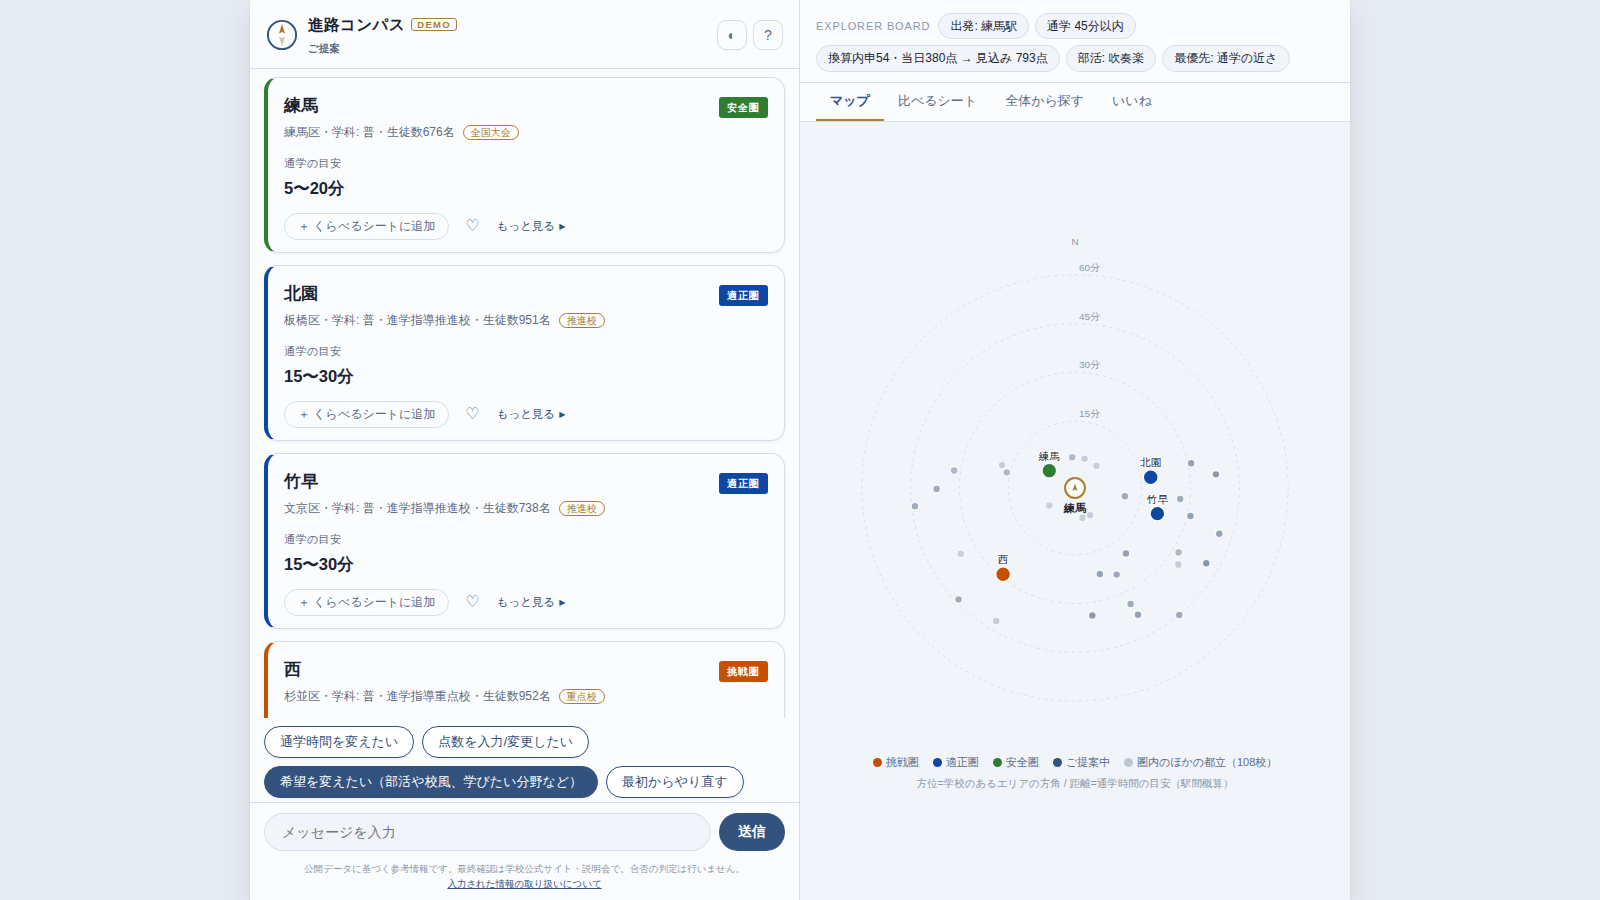
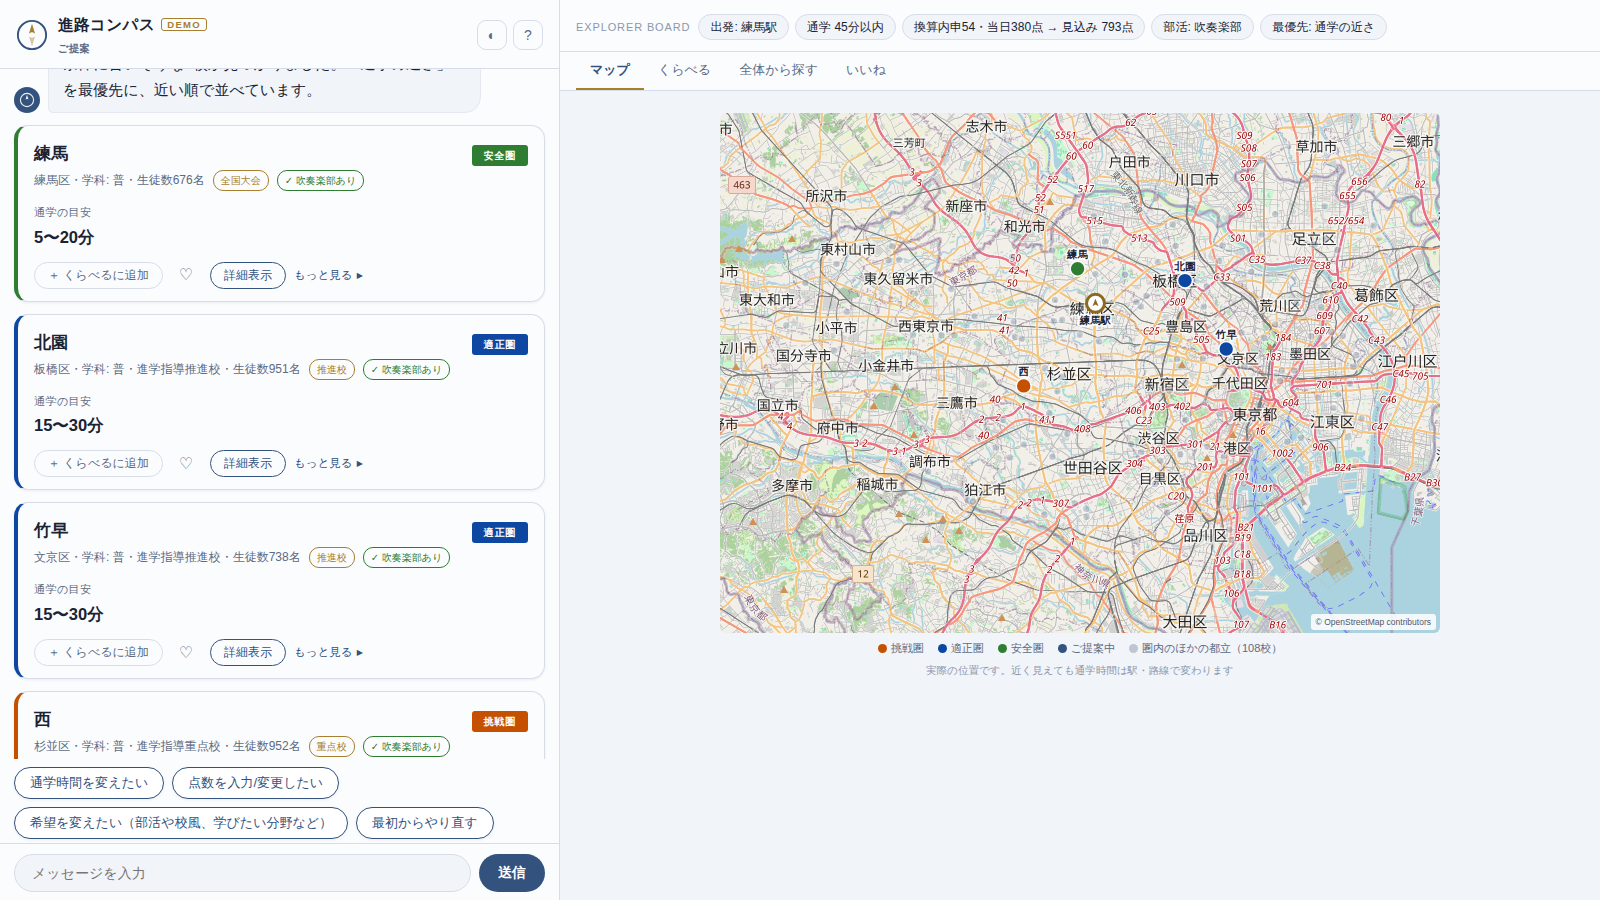
docs: 提出物の点検（A7）— 死んでいたURLを差し替え、キャプチャ1・2を撮り直す
提出前の通し点検（A7-a〜f）で見つかったものを直す。

URL（A7-d）
- #3「令和8年度 最終応募状況」が404。都教委のURL改編で
  /application/20260213_ichiji_final が消えていた。現行の常設ページ
  /application/submit（募集・応募状況等 → 2 応募状況）に差し替え。
  令和8年度のデータが載っていることを確認済み
- 参考リンクのダンス部選手権 /assets/pdf/high/index が403。
  大会ページ本体 /high/ に差し替え
- #1 東京都オープンデータカタログは AWS WAF のbot判定が入り、
  コマンドラインからは中身を確認できない。URL切れではないが、
  提出前にブラウザで開く旨をファイルに書き添えた
- station_database のライセンス表記は現状のままでよい。上流の README は
  CC BY 4.0 のバッジだが、正式な LICENSE.md（利用規約）は CC BY-SA 4.0

キャプチャ（A7-e）
- capture1・2 が「いまの画面」と合っていなかった。8/22〜23 の直しで
  タブ名（比べる→くらべる）・マップ（同心円→実地図）・くらべるシートの
  出し方（全画面→右のボードのタブ）が変わっている
- scripts/shoot_submission_captures.mjs を追加して撮り直した。手で撮ると
  条件も選んだ学校もそのつど変わるので、既存キャプチャと同じ条件
  （練馬/45分以内/換算内申54・当日380/吹奏楽/通学の近さ）に固定する。
  capture1 は3つの圏が同時に見える位置にスクロールを合わせる
- capture3 は表紙スライドで画面に依存しないため撮り直し不要

点検の結果（変更不要だったもの）
- A7-a シークレット相当の新規コンテキストで提出URLが開く。
  localStorage・Cookieとも空から始まり、キャッシュに助けられていない
- A7-b ルート →「デモを開く」→ プロトタイプ → 対話開始まで通る
- A7-c くらべるシート本文の「こちら」からプライバシー表記が開く
- A7-f API通しテスト 20/20 通過（落ちた項目なし）

Claude-Session: https://claude.ai/code/session_01AKzrfXpPxaaiowRAqyEPC3

diff --git a/docs/submission/opendata-list.md b/docs/submission/opendata-list.md
@@ -6,7 +6,7 @@
 |---|---|---|
 | 1 | 東京都公立学校一覧（東京都教育委員会・公立学校統計調査報告書） | https://catalog.data.metro.tokyo.lg.jp/dataset/t000021d2000000176 |
 | 2 | 都立高等学校 入学者選抜 応募状況（過去年度・令和4〜8年度） | https://www.kyoiku.metro.tokyo.lg.jp/admission/high_school/past/first_application |
-| 3 | 令和8年度 都立高等学校 入学者選抜 最終応募状況 | https://www.kyoiku.metro.tokyo.lg.jp/admission/high_school/application/20260213_ichiji_final |
+| 3 | 令和8年度 都立高等学校 入学者選抜 応募状況（第一次募集・分割前期募集） | https://www.kyoiku.metro.tokyo.lg.jp/admission/high_school/application/submit |
 | 4 | 進学指導重点校等の指定（東京都教育委員会） | https://www.kyoiku.metro.tokyo.lg.jp/school/designated_and_promotional_school/reformation/priority_school |
 | 5 | 中学校卒業者の進路状況調査（東京都教育委員会） | https://www.kyoiku.metro.tokyo.lg.jp/about/statistics_and_research/career_report |
 | 6 | station_database（全国鉄道駅・路線データ、CC BY-SA 4.0） | https://github.com/Seo-4d696b75/station_database |
@@ -16,12 +16,24 @@
 | 10 | 高校生国際美術展 入賞・佳作一覧 | https://www.ihsaf.net |
 
 登録枠に収まらなかった利用データ（参考・提出資料内で言及）:
-- 日本高校ダンス部選手権 結果 https://dancestadium.com/assets/pdf/high/index
+- 日本高校ダンス部選手権 結果 https://dancestadium.com/high/
 - 東京都高等学校文化連盟演劇部門（都大会） https://tkek.org/totaikai/
 - 各校公式サイト（部活一覧・制服・アクセス・学校の言葉）
 
+## URLの生存確認（2026-08-23）
+
+10件すべてを実際に開いて確認した。#3 は都教委のURL改編で404になっていたため、
+現行の常設ページ（募集・応募状況等 → 2 応募状況）に差し替えた。
+
+⚠ #1 東京都オープンデータカタログは AWS WAF のbot判定
+（`x-amzn-waf-action: challenge`）が入るため、コマンドラインからは中身を確認できない。
+カタログのトップ自体も同じ挙動なのでURL切れではないが、**提出前にブラウザで一度開くこと**。
+
 ## 画面キャプチャ（1600×900px・3点）
 
-1. `capture1_kaiwa_teian.png` — 対話と提案（3つの圏・コンパスマップ）
+1. `capture1_kaiwa_teian.png` — 対話と提案（3つの圏・マップ）
 2. `capture2_kuraberu_sheet.png` — くらべるシート（1枚地図・倍率5年推移）
 3. `capture3_hyoshi.png` — 表紙画像
+
+1・2 は画面を直すと古くなる。`node scripts/shoot_submission_captures.mjs` で
+入力を固定したまま撮り直せる（3は表紙スライドなので対象外）。
